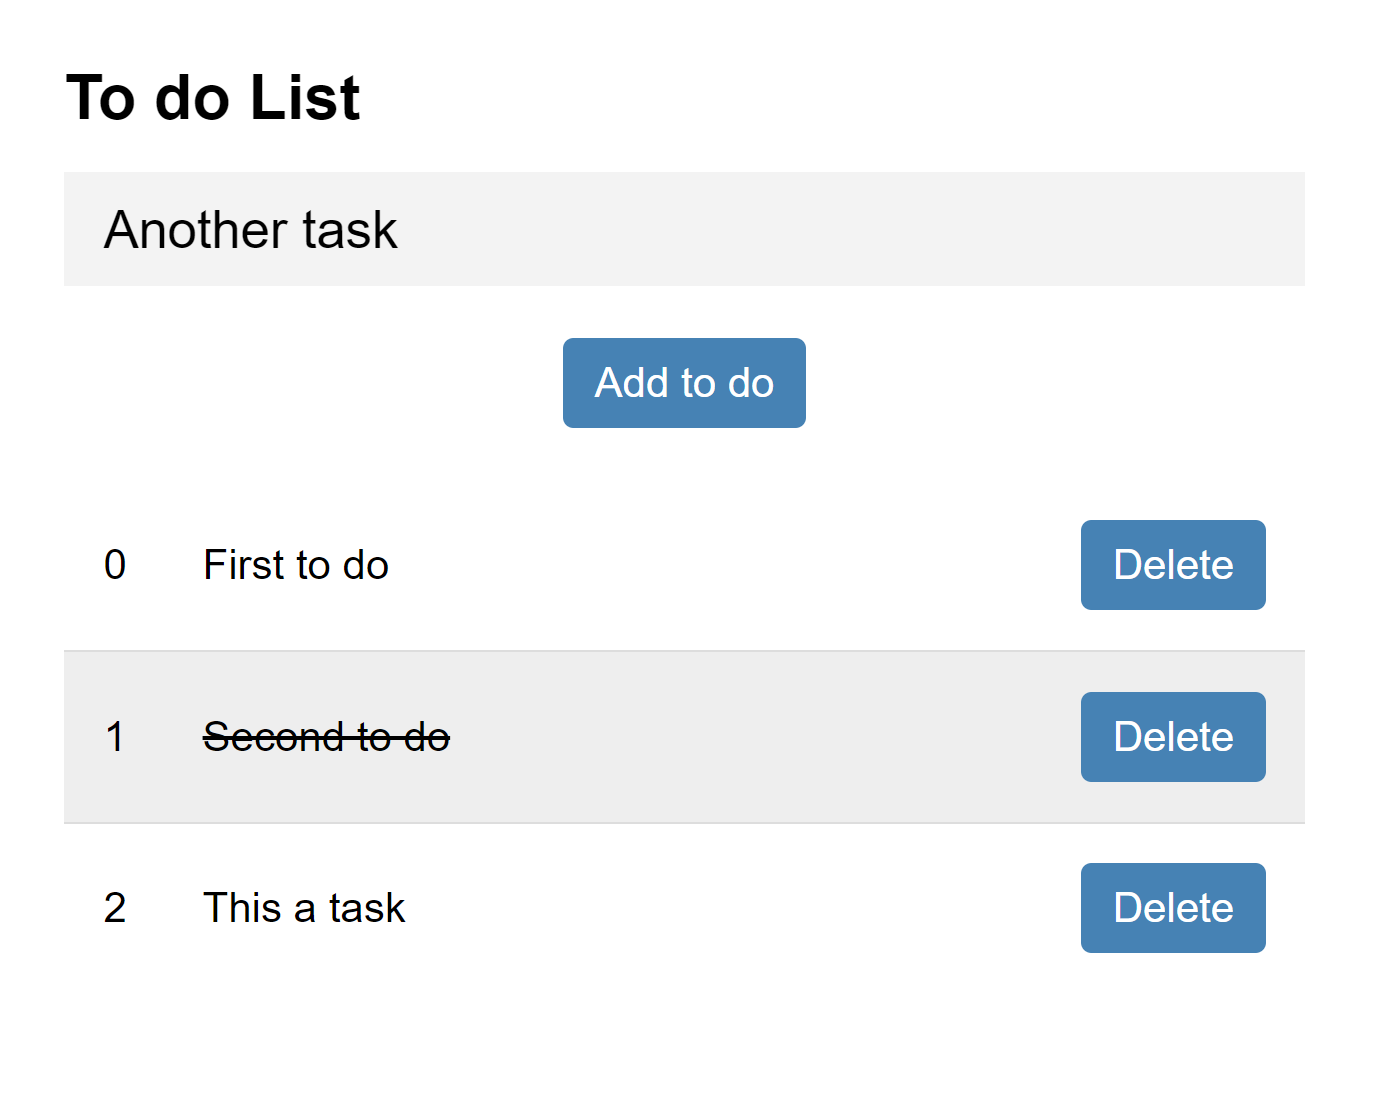
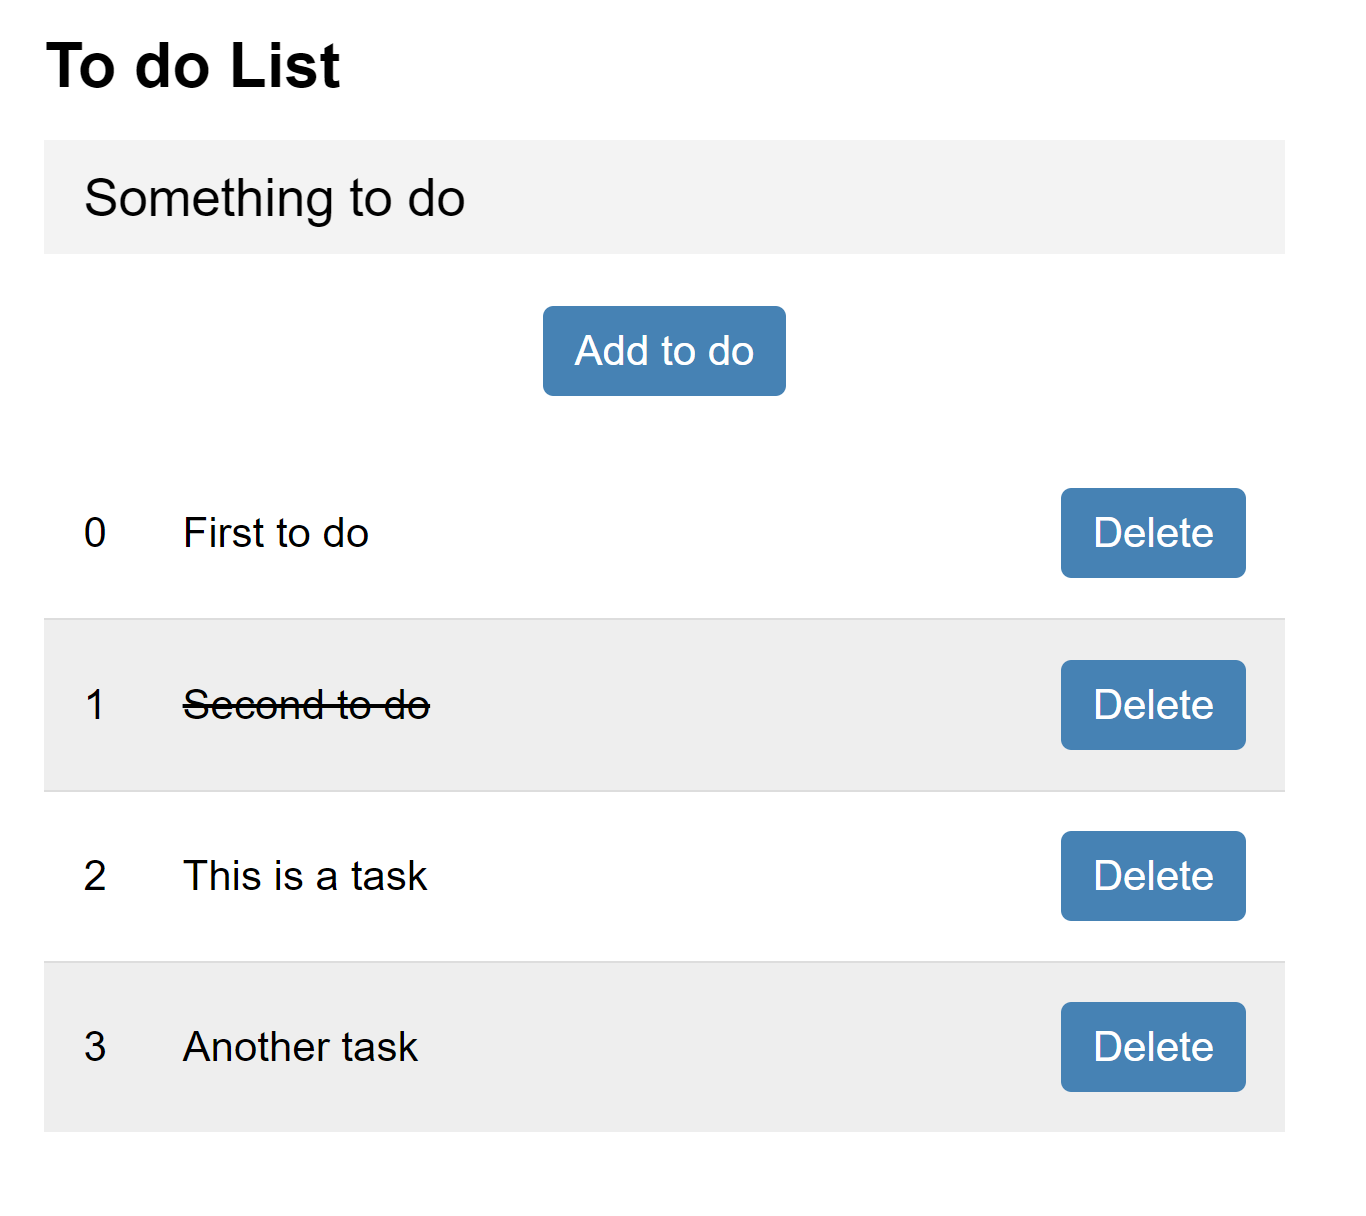
update README

diff --git a/README.md b/README.md
@@ -5,7 +5,7 @@ This is a simple to do list app, made with Angular.
 ## Running the project
 
 - Try having the latest stable version of Node
-- Having Angular CLI commands available on your machine: Run ```$ npm install -g @angular/cli```
+- Install Angular's CLI on your machine: Run ```$ npm i -g @angular/cli```
 - Installing project's dependencies: Open project's folder and run: `$ npm i`
 - Running the project in development mode(Using Angular's CLI): `$ ng serve`
 
